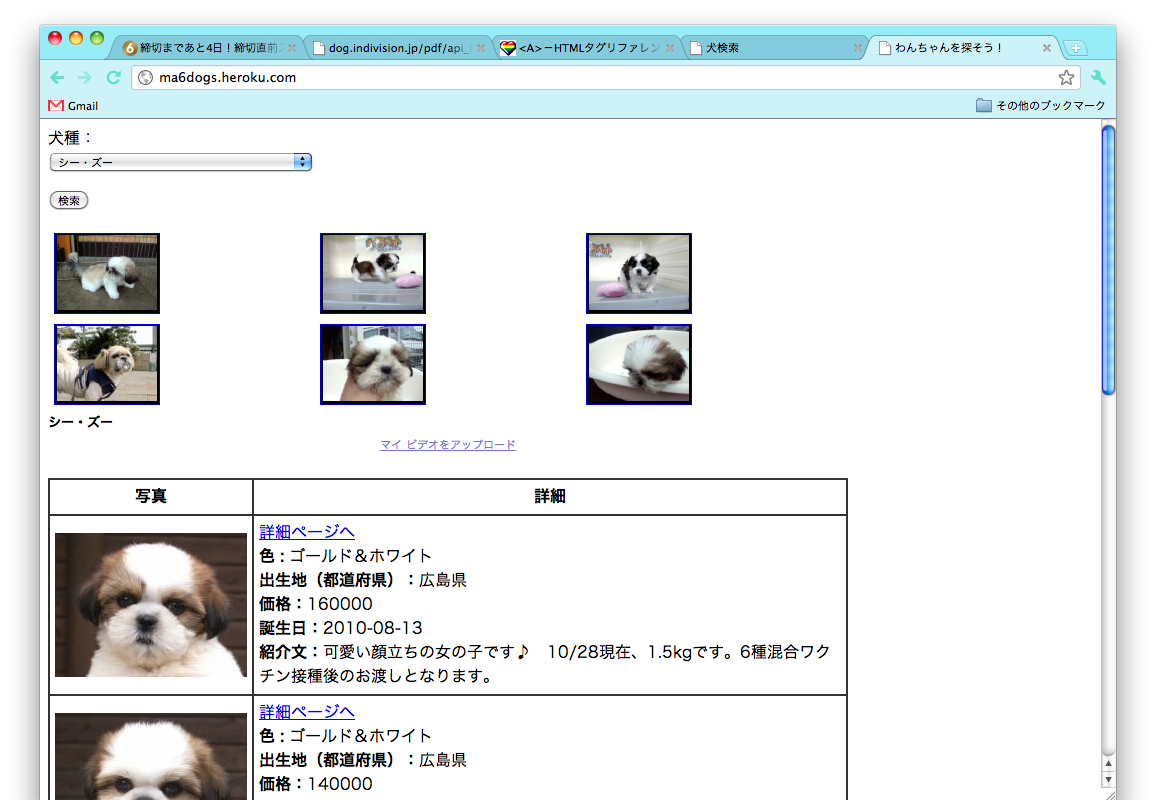
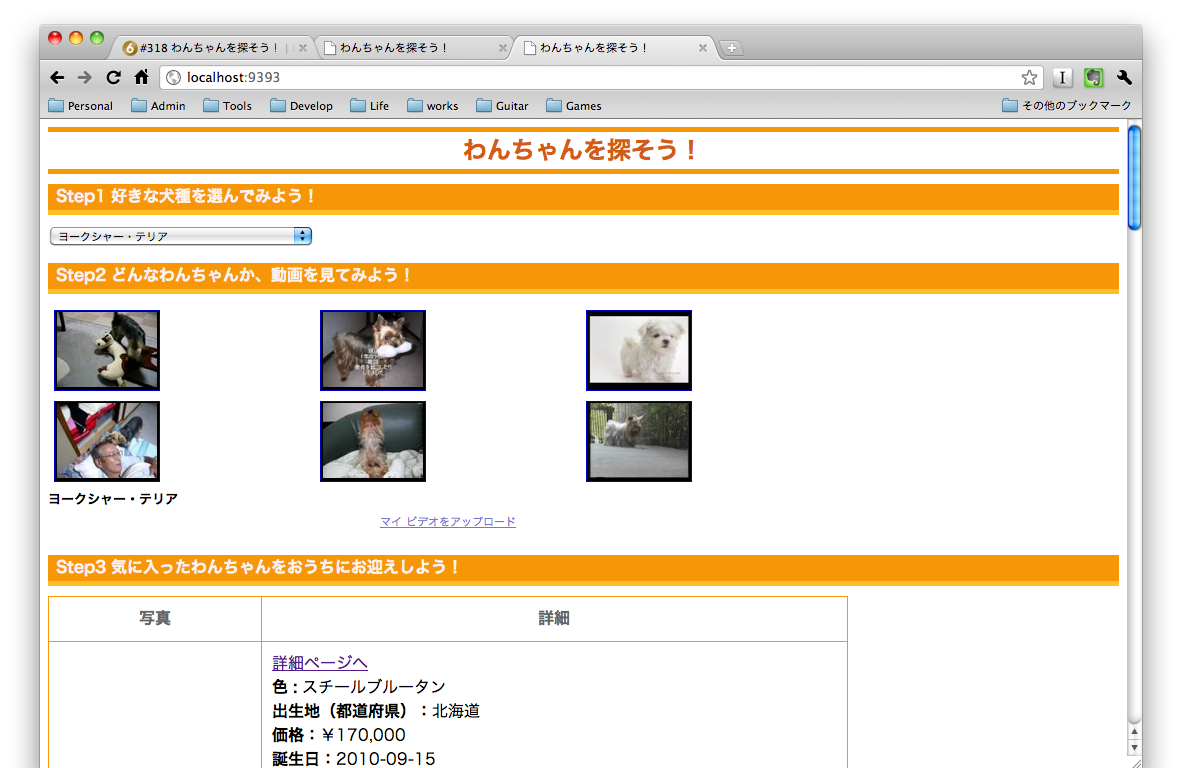
デザインを変更

diff --git a/public/css/labels.css b/public/css/labels.css
@@ -1,0 +1,155 @@
+.menuLineDoubleLightW {
+	margin:0 0 10px 0;
+	padding:2px 8px;
+	border-width:5px 0;
+	border-color:#f79708;
+	border-style:solid;
+	background:#fff;
+	color:#d25c14;
+	line-height:140%;
+	font-weight:bold;
+	text-align:center;
+}
+
+.menuRibbon {
+	margin:0 0 10px 0;
+	padding:2px 8px;
+	background:#f79708;
+	color:#F9F3EC;
+	line-height:140%;
+	font-weight:bold;
+}
+
+.menuRibbonLight {
+	margin:0 0 10px 0;
+	padding:2px 8px;
+	background:#febe25;
+	color:#d25c14;
+	line-height:140%;
+	font-weight:bold;
+}
+
+.menuTab {
+	margin:0 0 10px 0;
+	padding:2px 8px;
+	border-width:0 0 0 5px;
+	border-color: #febe25;
+	border-style:solid;
+	background:#f79708;
+	color:#F9F3EC;
+	line-height:140%;
+	font-weight:bold;
+}
+
+.menuTabLight {
+	margin:0 0 10px 0;
+	padding:2px 8px;
+	border-width:0 0 0 5px;
+	border-color:#f79708;
+	border-style:solid;
+	background:#febe25;
+	color:#d25c14;
+	line-height:140%;
+	font-weight:bold;
+}
+
+.menuTabDouble {
+	margin:0 0 10px 0;
+	padding:2px 8px;
+	border-width:0 5px;
+	border-color: #febe25;
+	border-style:solid;
+	background:#f79708;
+	color:#F9F3EC;
+	line-height:140%;
+	font-weight:bold;
+	text-align:center;
+}
+
+.menuTabDoubleLight {
+	margin:0 0 10px 0;
+	padding:2px 8px;
+	border-width:0 5px;
+	border-color:#f79708;
+	border-style:solid;
+	background:#febe25;
+	color:#d25c14;
+	line-height:140%;
+	font-weight:bold;
+	text-align:center;
+}
+
+.menuLine {
+	margin:0 0 10px 0;
+	padding:2px 8px;
+	border-width:0 0 5px 0;
+	border-color: #febe25;
+	border-style:solid;
+	background:#f79708;
+	color:#F9F3EC;
+	line-height:140%;
+	font-weight:bold;
+}
+
+.menuLineLight {
+	margin:0 0 10px 0;
+	padding:2px 8px;
+	border-width:0 0 5px 0 ;
+	border-color:#f79708;
+	border-style:solid;
+	background:#febe25;
+	color:#d25c14;
+	line-height:140%;
+	font-weight:bold;
+}
+
+.menuLineDouble {
+	margin:0 0 10px 0;
+	padding:2px 8px;
+	border-width:5px 0;
+	border-color: #febe25;
+	border-style:solid;
+	background:#f79708;
+	color:#F9F3EC;
+	line-height:140%;
+	font-weight:bold;
+	text-align:center;
+}
+
+.menuLineDoubleLightW {
+	margin:0 0 10px 0;
+	padding:2px 8px;
+	border-width:5px 0;
+	border-color:#f79708;
+	border-style:solid;
+	background:#fff;
+	color:#d25c14;
+	line-height:140%;
+	font-weight:bold;
+	text-align:center;
+}
+
+.menuLineDoubleLight {
+	margin:0 0 10px 0;
+	padding:2px 8px;
+	border-width:5px 0;
+	border-color:#f79708;
+	border-style:solid;
+	background:#febe25;
+	color:#d25c14;
+	line-height:140%;
+	font-weight:bold;
+	text-align:center;
+}
+
+.menuLineLightW {
+	margin:0 0 10px 0;
+	padding:2px 8px;
+	border-width:0 0 5px 0 ;
+	border-color:#f79708;
+	border-style:solid;
+	background:#fff;
+	color:#d25c14;
+	line-height:140%;
+	font-weight:bold;
+}

diff --git a/public/css/styles.css b/public/css/styles.css
@@ -1,0 +1,26 @@
+#logo {
+	font-size: 150%;
+}
+
+#videoControl {
+	width: 800px;
+}
+
+#videoControl .searchForm_gsvsc {
+	display: none !important;
+}
+
+#result table {
+	width: 800px;
+	border-collapse: collapse;
+}
+
+#result table td,
+#result table th {
+	border: 1px solid #f79708;
+	padding: 10px;
+}
+
+#result table th {
+	color: #666;
+}

diff --git a/public/js/scripts.js b/public/js/scripts.js
@@ -1,0 +1,7 @@
+window.addEventListener('load', function(event) {
+	var sel = document.getElementById('kenshu');
+	sel.addEventListener('change', function(e) {
+		var target = e.target;
+		target.form.submit();
+	}, false);
+}, false);

diff --git a/main.rb b/main.rb
@@ -20,31 +20,39 @@ configure do
   end
 end
 
-get '/' do
-  @options = @@options
-  erb :index
-end
-
-post '/' do
-  @options = @@options
+def get_dogs(breed)
   url = 'http://dog.indivision.jp/api/puppy'
-  breed = params[:kenshu]
   result = open(url+'?breed='+escape(breed)).read
   doc = Nokogiri::XML(result)
-  @puppies = []
+  puppies = []
   doc.search('puppy').each do |puppy|
     puppy = {
       :url => puppy.search('url').text,
       :puppy_name => puppy.search('puppy_name').text,
       :color => puppy.search('color').text,
       :place => puppy.search('place').text,
-      :price => puppy.search('price').text,
+      :price => '￥'+puppy.search('price').text.to_s.reverse.gsub(/(\d{3})(?=\d)/, '\1,').reverse,
       :birth => puppy.search('birth').text,
       :image => puppy.search('image/middle')[0].text,
       :comment => puppy.search('comment')[0].text
     }
-    @puppies << puppy
+    puppies << puppy
   end
-  @kenshu = @@kenshu[params[:kenshu].to_i]
+  puppies
+end
+
+get '/' do
+  @options = @@options
+  @kenshu_id = '1193'
+  @puppies = get_dogs(@kenshu_id)
+  @kenshu = @@kenshu[@kenshu_id.to_i]
+  erb :index
+end
+
+post '/' do
+  @options = @@options
+  @kenshu_id = params[:kenshu]
+  @puppies = get_dogs(@kenshu_id)
+  @kenshu = @@kenshu[@kenshu_id.to_i]
   erb :index
 end
